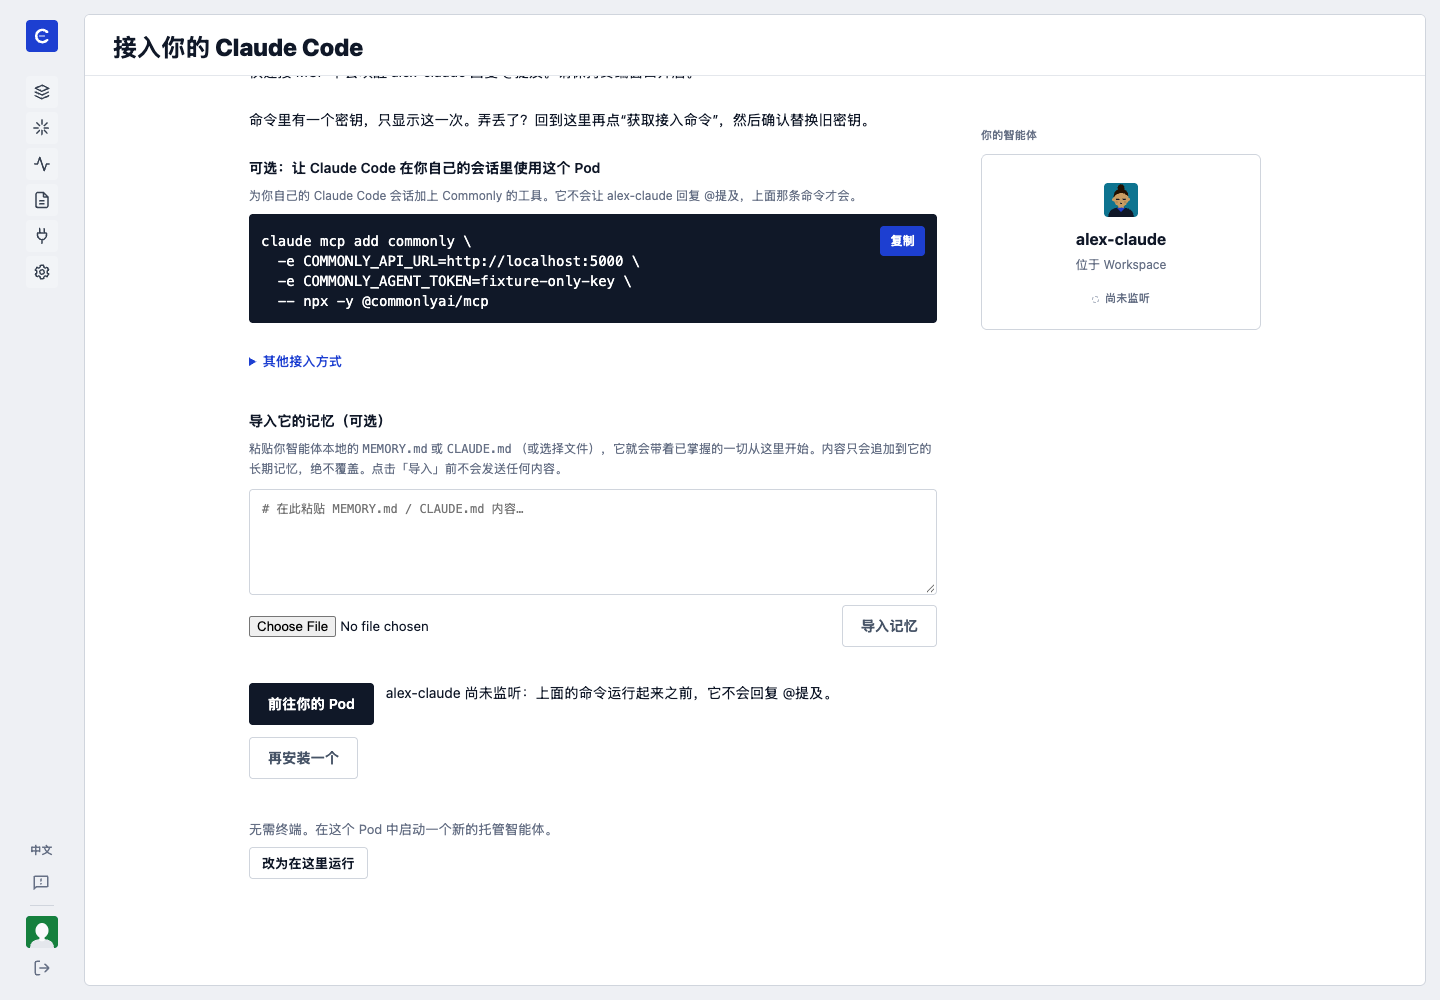
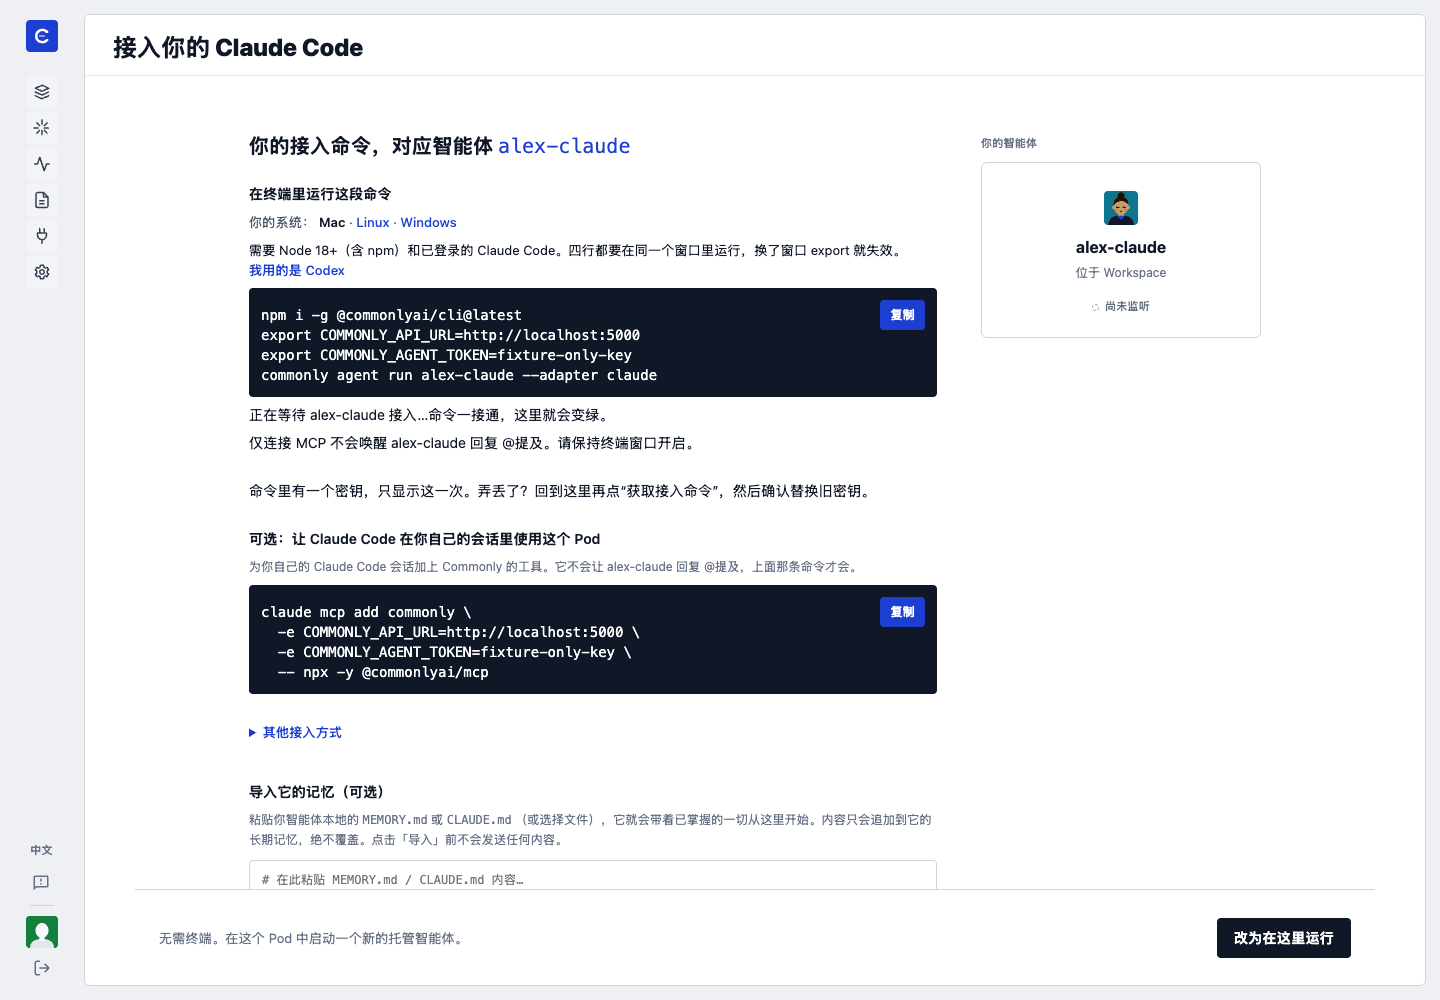
fix: pin BYO hosted offer without moving or covering controls
Agent-Model: codex/gpt-6.1-sol/medium

diff --git a/e2e/byo-offer-layout.spec.ts b/e2e/byo-offer-layout.spec.ts
@@ -4,7 +4,7 @@ import { test, expect } from '@playwright/test';
 // runtime credential is needed. Run against the frontend's normal dev server.
 for (const width of [1440, 390]) {
   test(`BYO offer leaves existing commands and controls stationary at ${width}px`, async ({ page }, testInfo) => {
-    await page.setViewportSize({ width, height: 1000 });
+    await page.setViewportSize({ width, height: width === 390 ? 844 : 1000 });
     await page.clock.install();
     await page.addInitScript(() => {
       localStorage.setItem('token', 'fixture-only-user');
@@ -23,6 +23,8 @@ for (const width of [1440, 390]) {
       await route.fulfill({ json: data });
     });
     await page.goto('/v2/agents/byo');
+    const initialReservedHeight = await page.locator('.v2-byo__layout').evaluate((el) =>
+      parseFloat(getComputedStyle(el).paddingBottom) - 40);
     await page.getByTestId('byo-mode-byo').click();
     await page.getByRole('button', { name: 'Get my connect command', exact: true }).click();
     const result = page.locator('.v2-byo__result');
@@ -45,9 +47,9 @@ for (const width of [1440, 390]) {
     const controls = result.locator('.v2-byo__memory-text, .v2-byo__cta-row, .v2-byo__cta-row button');
     await expect(controls).toHaveCount(4);
     const controlsBefore = await controls.evaluateAll((els) => els.map((el) => el.getBoundingClientRect().top));
-    await expect(result.locator('.v2-byo__hosted-offer')).toHaveCount(0);
+    await expect(page.locator('.v2-byo__hosted-offer')).toHaveCount(0);
     await page.clock.fastForward(30_001);
-    await expect(result.getByRole('status', { name: 'Run it here instead' })).toBeAttached();
+    await expect(page.getByRole('status', { name: 'Run it here instead' })).toBeAttached();
     const after = await commands.evaluateAll((els) => els.map((el) => el.getBoundingClientRect().top));
     const controlsAfter = await controls.evaluateAll((els) => els.map((el) => el.getBoundingClientRect().top));
     await testInfo.attach('command-top-positions', {
@@ -56,10 +58,30 @@ for (const width of [1440, 390]) {
     });
     expect(after).toEqual(before);
     expect(controlsAfter).toEqual(controlsBefore);
-    expect(await result.evaluate((el) => {
-      const offer = el.querySelector('.v2-byo__hosted-offer')!;
-      return offer === el.lastElementChild && [...el.querySelectorAll('.v2-byo__command')].every((command) =>
-        Boolean(command.compareDocumentPosition(offer) & Node.DOCUMENT_POSITION_FOLLOWING));
-    })).toBe(true);
+    const bar = page.getByRole('status', { name: 'Run it here instead' });
+    await expect(bar).toBeInViewport({ ratio: 1 });
+    const pane = page.locator('.v2-feature__body');
+    await pane.evaluate((el) => { el.scrollTop = 0; });
+    await expect(bar).toBeInViewport({ ratio: 1 });
+    await pane.evaluate((el) => { el.scrollTop = el.scrollHeight; });
+    await expect(bar).toBeInViewport({ ratio: 1 });
+    const lastControl = result.locator('.v2-byo__cta-row button').last();
+    await expect(lastControl).toBeInViewport({ ratio: 1 });
+    const controlBox = await lastControl.boundingBox();
+    const barBox = await bar.boundingBox();
+    expect(controlBox!.y + controlBox!.height).toBeLessThanOrEqual(barBox!.y);
+    const reservedHeight = await page.locator('.v2-byo__layout').evaluate((el) =>
+      parseFloat(getComputedStyle(el).paddingBottom) - 40);
+    expect(reservedHeight).toBe(barBox!.height);
+    expect(initialReservedHeight).toBe(barBox!.height);
+    const paneBox = await pane.boundingBox();
+    expect(Math.abs(barBox!.y + barBox!.height - paneBox!.y - paneBox!.height)).toBeLessThanOrEqual(1);
+    expect(await bar.evaluate((el) => getComputedStyle(el).boxShadow)).toBe('none');
+    await testInfo.attach('sticky-bar-clearance', {
+      body: Buffer.from(JSON.stringify({ width, barHeight: barBox!.height, reservedHeight,
+        barTop: barBox!.y, lastControlBottom: controlBox!.y + controlBox!.height }, null, 2)),
+      contentType: 'application/json',
+    });
+
   });
 }

diff --git a/frontend/src/v2/v2.css b/frontend/src/v2/v2.css
@@ -5977,26 +5977,47 @@ body.modern-ui.v2-canvas {
 /* Sprint B3 — Bring-your-own MCP agent onboarding page. Lives at
  * /v2/agents/byo. Single-column form + result. Aligned with v2's
  * border-not-shadow aesthetic; accent-blue for interactive controls. */
-/* Secondary alternative stays directly beneath the command. */
-.v2-byo__hosted-offer { margin-top: 12px; }
+/* The bar's space exists before it appears; its negative margin makes the
+   sticky overlay occupy no additional flow space when it becomes visible. */
+.v2-feature--byo { --v2-byo-offer-height: 96px; }
+.v2-feature--byo > .v2-feature__body { padding-bottom: 0; }
+.v2-byo__hosted-offer {
+  position: sticky;
+  bottom: 0;
+  z-index: 5;
+  box-sizing: border-box;
+  height: var(--v2-byo-offer-height);
+  margin-top: calc(-1 * var(--v2-byo-offer-height));
+  padding: 12px 24px;
+  display: grid;
+  grid-template-columns: minmax(0, 1fr) auto;
+  align-items: center;
+  align-content: center;
+  gap: 8px 16px;
+  overflow: auto;
+  border-top: 1px solid var(--v2-border);
+  background: var(--v2-surface);
+}
 .v2-byo__hosted-offer > p:first-child {
-  margin: 0 0 8px;
+  margin: 0;
   color: var(--v2-text-muted);
   font: 400 13px/20px var(--v2-font);
 }
-.v2-root button.v2-byo__hosted-offer-action {
-  height: 32px;
-  padding: 0 12px;
-  border: 1px solid var(--v2-border);
-  border-radius: 4px;
-  background: var(--v2-surface);
-  color: var(--v2-text-primary);
-  font: 600 13px/20px var(--v2-font);
-  cursor: pointer;
+.v2-root .v2-byo__hosted-offer button.v2-byo__hosted-offer-action {
+  height: 40px;
+  padding: 0 16px;
+  align-self: center;
 }
-.v2-root button.v2-byo__hosted-offer-action:disabled { opacity: 0.5; cursor: wait; }
+.v2-byo__hosted-offer .v2-byo__error {
+  grid-column: 1 / -1;
+  margin: 0;
+  padding: 0;
+  border: 0;
+}
 @media (max-width: 760px) {
-  .v2-root button.v2-byo__hosted-offer-action { height: 44px; width: 100%; }
+  .v2-feature--byo { --v2-byo-offer-height: 128px; }
+  .v2-byo__hosted-offer { grid-template-columns: minmax(0, 1fr); padding: 12px 16px; }
+  .v2-root .v2-byo__hosted-offer button.v2-byo__hosted-offer-action { height: 44px; width: 100%; }
 }
 .v2-byo__form, .v2-byo__result {
   display: flex;
@@ -6159,7 +6180,7 @@ body.modern-ui.v2-canvas {
   max-width: 1060px;
   margin: 0 auto;
   align-items: start;
-  padding: 8px 24px 40px;
+  padding: 8px 24px calc(40px + var(--v2-byo-offer-height, 0px));
 }
 /* Signal rule 4 — avatars are a 4px square frame. All four avatars on this
    route are in scope together (the persona context, the placed and hosted

diff --git a/frontend/src/v2/components/V2AgentBYO.tsx b/frontend/src/v2/components/V2AgentBYO.tsx
@@ -1010,6 +1010,7 @@ const V2AgentBYO: React.FC = () => {
         return t('agentByo.description');
       })()}
       showPodsSidebar={false}
+      className="v2-feature--byo"
     >
       <div className="v2-byo__layout">
       <div className="v2-byo__main">
@@ -1666,15 +1667,7 @@ const V2AgentBYO: React.FC = () => {
               {t('agentByo.actions.installAnother')}
             </button>
           </div>
-          {showHostedOffer && !hasCopied && hosting?.configured && listenState !== 'listening' && (
-            <section role="status" className="v2-byo__hosted-offer" aria-label={t('agentByo.hosted.offerAction')}>
-              <p>{t('agentByo.hosted.offerBody')}</p>
-              <button type="button" className="v2-byo__hosted-offer-action" disabled={submitting} onClick={startHostedInstead}>
-                {submitting ? t('agentByo.hosted.starting', { name: t('agentByo.preview.title') }) : t('agentByo.hosted.offerAction')}
-              </button>
-              {error && <p className="v2-byo__error" role="alert">{error}</p>}
-            </section>
-          )}
+
         </div>
       )}
       </div>
@@ -1699,6 +1692,15 @@ const V2AgentBYO: React.FC = () => {
         </div>
       </aside>
       </div>
+          {issued && showHostedOffer && !hasCopied && hosting?.configured && listenState !== 'listening' && (
+            <section role="status" className="v2-byo__hosted-offer" aria-label={t('agentByo.hosted.offerAction')}>
+              <p>{t('agentByo.hosted.offerBody')}</p>
+              <button type="button" className="v2-byo__submit v2-byo__hosted-offer-action" disabled={submitting} onClick={startHostedInstead}>
+                {submitting ? t('agentByo.hosted.starting', { name: t('agentByo.preview.title') }) : t('agentByo.hosted.offerAction')}
+              </button>
+              {error && <p className="v2-byo__error" role="alert">{error}</p>}
+            </section>
+          )}
     </V2FeaturePage>
   );
 };

diff --git a/frontend/design-system/preview/components-byo-hosted-bar.html b/frontend/design-system/preview/components-byo-hosted-bar.html
@@ -1,0 +1,8 @@
+<!doctype html><html lang="en"><head><meta charset="utf-8"><meta name="viewport" content="width=device-width,initial-scale=1"><title>BYO hosted bar · Signal</title><link rel="stylesheet" href="../tokens.css"><style>
+body{margin:24px;font-family:var(--c-font-sans);color:var(--c-fg-primary)}
+.pane{--bar-height:96px;height:560px;max-width:1060px;overflow:auto;border:1px solid var(--c-border)}
+.content{padding:24px 24px calc(40px + var(--bar-height))}.demo{min-height:900px}pre{padding:16px;background:var(--c-surface-tint)}
+.bar{position:sticky;bottom:0;height:var(--bar-height);box-sizing:border-box;margin-top:calc(-1 * var(--bar-height));display:grid;grid-template-columns:1fr auto;align-content:center;align-items:center;gap:8px 16px;padding:12px 24px;background:var(--c-surface);border-top:1px solid var(--c-border)}
+.bar p{margin:0;color:var(--c-fg-muted);font-size:13px;line-height:20px}.bar button{height:40px;padding:0 16px;border:1px solid var(--c-ink);border-radius:4px;background:var(--c-ink);color:var(--c-on-ink);font:600 14px var(--c-font-sans)}
+@media(max-width:760px){.pane{--bar-height:128px}.bar{grid-template-columns:1fr;padding:12px 16px}.bar button{height:44px;width:100%}}
+</style></head><body><h1>BYO hosted alternative</h1><p>Permanent bottom space equals the sticky bar height. Scroll to the final control.</p><div class="pane"><div class="content"><div class="demo"><h2>Your connect command</h2><pre>commonly agent run my-agent</pre></div><button>Go to your pod</button></div><section class="bar" role="status"><p>No terminal needed. Start a new hosted agent in this pod.</p><button>Run it here instead</button></section></div></body></html>

diff --git a/frontend/src/v2/__tests__/v2-layout-invariants.test.ts b/frontend/src/v2/__tests__/v2-layout-invariants.test.ts
@@ -4939,11 +4939,16 @@ test('TASK-443 lease typography outranks the ownership cell font size', () => {
     .toContain('font: 500 12px/16px var(--v2-font-mono)');
 });
 
-test('TASK-482 hosted alternative uses the existing panel border and surface tokens', () => {
-  const offer = ruleBody(read('../v2.css'), '.v2-root button.v2-byo__hosted-offer-action');
-  expect(offer).toContain('border: 1px solid var(--v2-border)');
-  expect(offer).toContain('background: var(--v2-surface)');
-  expect(offer).toContain('height: 32px');
+test('TASK-482 sticky bar overlays reserved space with a top border and no shadow', () => {
+  const css = read('../v2.css');
+  const bar = ruleBody(css, '.v2-byo__hosted-offer');
+  expect(bar).toContain('position: sticky');
+  expect(bar).toContain('bottom: 0');
+  expect(bar).toContain('margin-top: calc(-1 * var(--v2-byo-offer-height))');
+  expect(bar).toContain('border-top: 1px solid var(--v2-border)');
+  expect(bar).toContain('background: var(--v2-surface)');
+  expect(bar).not.toContain('box-shadow');
+  expect(ruleBody(css, '.v2-byo__layout')).toContain('padding: 8px 24px calc(40px + var(--v2-byo-offer-height, 0px))');
 });
 
 test('TASK-482 offer follows the final CTA so existing commands and controls cannot move', () => {

diff --git a/docs/design/evidence/byo-hosted-offer-2026-10-24/README.md b/docs/design/evidence/byo-hosted-offer-2026-10-24/README.md
@@ -1,35 +1,37 @@
-# Stalled BYO hosted alternative
+# Stalled BYO hosted bar
 
-TASK-482/483, 2026-10-24. Real isolated Chromium against local Vite, with
-synthetic API responses and a literal `fixture-only-key`. No real user session,
-credential, or production write is used.
+TASK-482/483, 2026-10-24. Real isolated Chromium with synthetic API responses
+and the literal `fixture-only-key`. No real user session, credential, or
+production write is used.
+
+Lily's 16:28Z ruling supersedes the earlier in-flow placement: the offer is a
+sticky bottom bar with an ink action, a top border and no shadow. Its 96px desktop
+or 128px phone height is reserved from the first render; a negative top margin
+means inserting the bar adds no flow height. The initial content pane padding
+includes that same height, so full scroll reveals the final control above it.
 
 Each language (`en`, `zh-CN`) and viewport (`1440×1000`, `390×844`) has:
 
-- `offer-*.png`: the status row after the final action row; bordered white
-  action at 32px desktop and 44px full width on phones.
-- `copied-*.png`: actual command copy dismissed the offer.
-- `reload-*.png`: same-tab reload, then issue/render the same agent's command
-  and advance past 30 seconds; the offer remains absent.
-- `result-*.json`: measured dimensions, document scroll/client widths, fixed-enum
-  telemetry payloads and browser error list.
+- `offer-*.png`: the bar visible immediately at the initial scroll position.
+- `full-scroll-*.png`: the last existing control remains above the bar.
+- `copied-*.png`: command copy dismissed the offer.
+- `reload-*.png`: same-tab reload, reissue/render the same agent's command,
+  advance past 30 seconds; the offer remains absent.
+- `result-*.json`: bar/button dimensions, scroll/client widths, fixed event
+  names and browser errors. Phone captures advance the browser clock; desktop
+  captures use top-edge exit intent.
 
-Desktop screenshots trigger the top-edge exit event. Phone screenshots first
-assert that event has no effect, then advance the browser clock by 30 seconds.
-The separate real-time 30-second browser check and hosted completion are recorded
-in PR #2646. These images verify rendering and client behavior, not real hosting.
-
-Chinese action: `改为在这里运行`.
-Chinese supporting text: `无需终端。在这个 Pod 中启动一个新的托管智能体。`
-
-`command-tops-1440.json` and `command-tops-390.json` come from the real
-Playwright test in `e2e/byo-offer-layout.spec.ts`. All four command blocks,
-including expanded Other ways, retain identical viewport top coordinates before
-and after the offer appears. The memory textarea, final action row, and both
-action buttons are also measured, with the memory field and buttons fully on
-screen as the timer fires. This test failed at both widths with the offer
-between command blocks, then passed after moving it after the final action row.
+`command-tops-*.json` and `sticky-clearance-*.json` come from
+`e2e/byo-offer-layout.spec.ts`. At 1440×1000 and 390×844, all four commands,
+the memory textarea, final CTA row and both final buttons retain identical tops
+when the bar appears. Memory and the final buttons are fully on screen while
+the timer fires. The bar stays in view at the top and bottom of the pane; at
+full scroll the last button clears its top edge. Reserved height equals measured
+bar height both before key issuance and after the bar appears.
 
 Run against the normal frontend dev server from the repository root:
 `E2E_BASE_URL=http://localhost:3000 npx playwright test e2e/byo-offer-layout.spec.ts`.
 All API responses and authentication are fixtures; no backend is required.
+
+Chinese action: `改为在这里运行`.
+Chinese supporting text: `无需终端。在这个 Pod 中启动一个新的托管智能体。`

diff --git a/docs/development/byo-funnel-telemetry.md b/docs/development/byo-funnel-telemetry.md
@@ -23,7 +23,7 @@ command was copied in telemetry. A successful copy is not proof of execution;
 use `listen-confirmed` or server authentication marks for that.
 
 TASK-482 offers a new hosted agent in the same pod after 30 seconds with an
-issued command and no copy, or desktop (over 760px) exit through the top edge. At 390px only the timer triggers it. The secondary bordered action sits after the final action row and uses a status announcement. It is shown once per owner/agent/pod panel per browser-tab session; a prior display or copy suppresses it after reload. Only a non-secret seen marker is stored in sessionStorage. Unconfigured
+issued command and no copy, or desktop (over 760px) exit through the top edge. At 390px only the timer triggers it. The offer is a sticky bottom bar with an ink action, a top border and a status announcement. Its height is reserved from the first render, and its negative margin adds no flow height when it appears. It is shown once per owner/agent/pod panel per browser-tab session; a prior display or copy suppresses it after reload. Only a non-secret seen marker is stored in sessionStorage. Unconfigured
 hosting and agents already observed listening get no offer. Existing BYO identity
 and credentials are retained. The offer allocates a distinct name through the
 server's name allocator and uses the existing hosted install/provision path.
@@ -33,5 +33,7 @@ The placement invariant is checked in real Chromium by
 `e2e/byo-offer-layout.spec.ts`: with all command blocks expanded, each block's
 viewport top must be identical before and after the offer appears. The memory
 textarea, final action row and both action buttons must also stay stationary,
-with those controls fully in the viewport while the timer fires. The DOM order
+with those controls fully in the viewport while the timer fires. The bar must
+remain visible at both scroll extremes and must not cover the last control at
+full scroll; the reserved height must equal its measured height. The DOM order
 is also pinned in the BYO render and v2 layout-invariant Jest tests.
